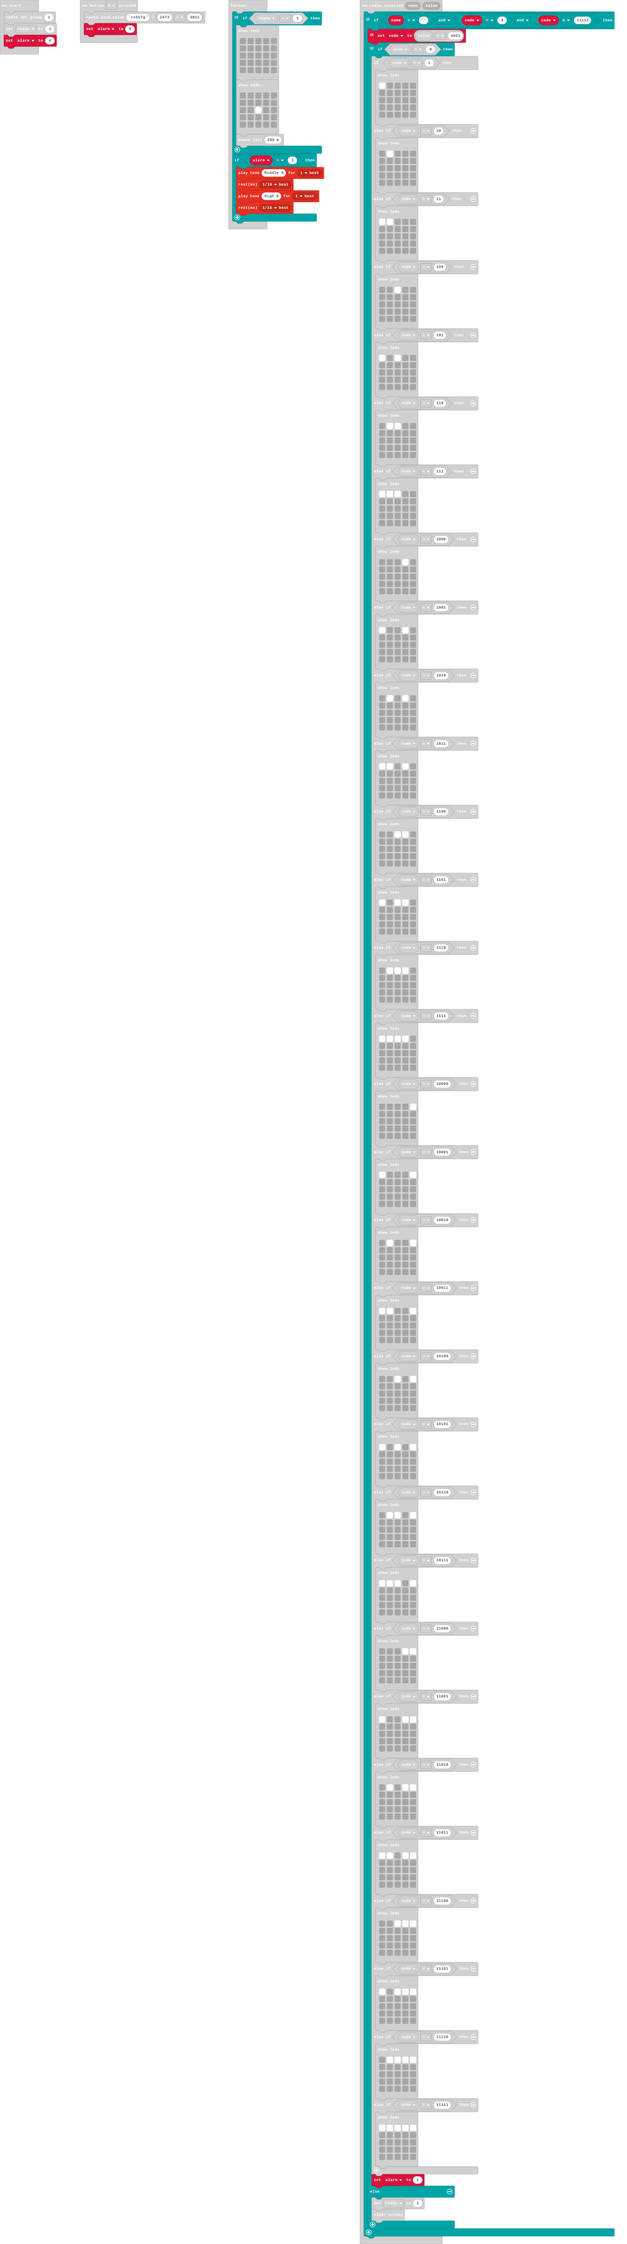
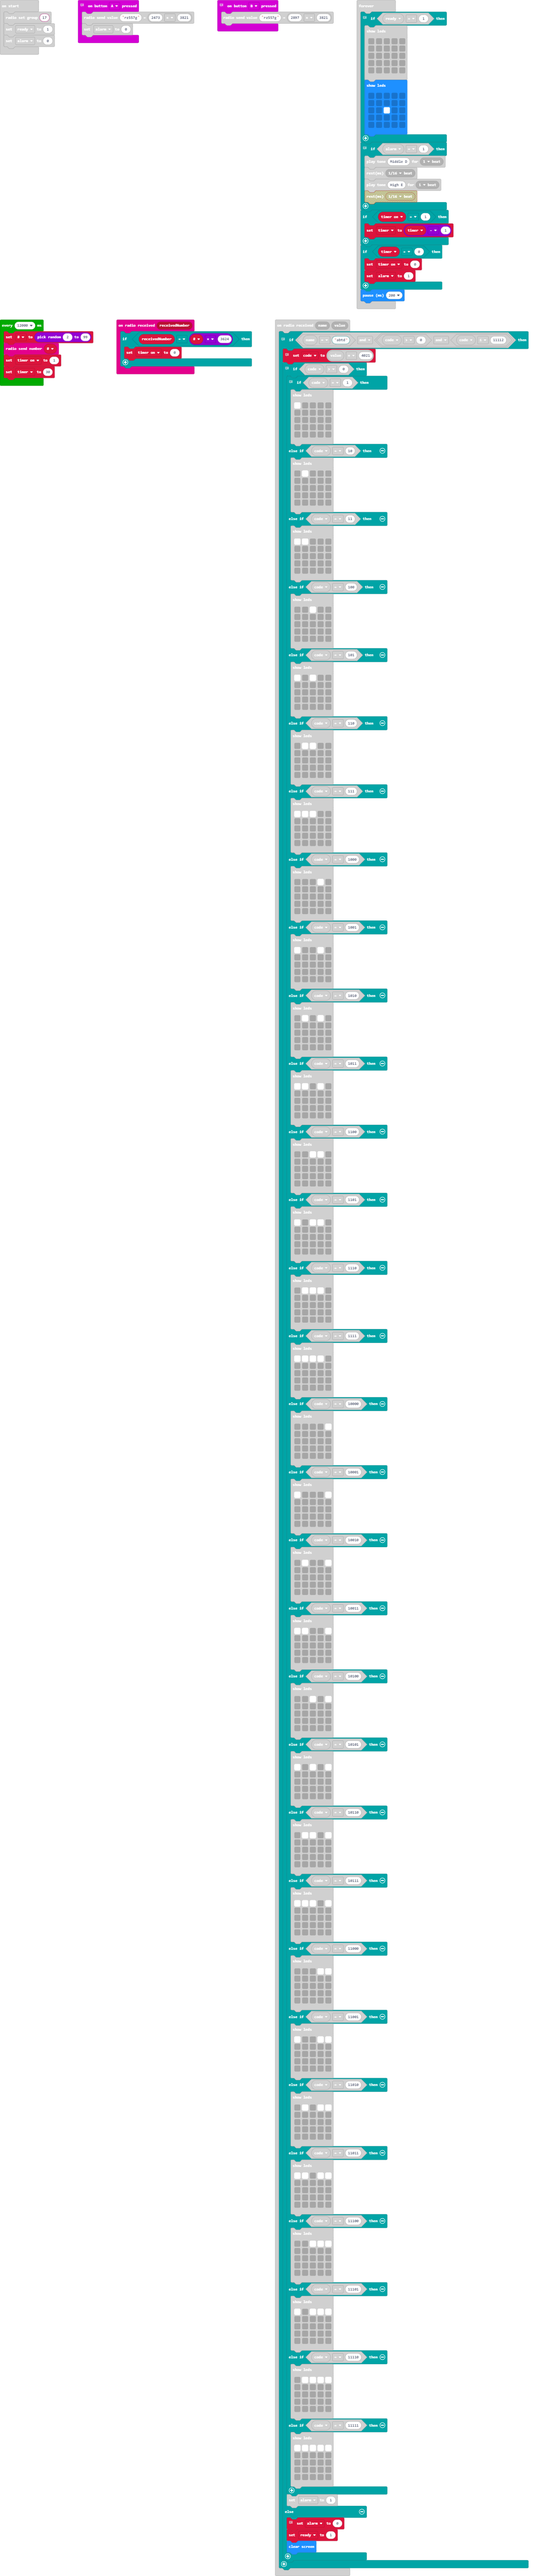
Update pxt.json, main.blocks, main.ts

Changed region(s): [[0.1218, 0.0, 0.974, 1.0], [0.0, 0.1244, 0.1522, 0.1555], [0.0, 0.0, 0.0913, 0.0311]]

diff --git a/main.ts b/main.ts
@@ -1,7 +1,14 @@
+radio.onReceivedNumber(function (receivedNumber) {
+    if (receivedNumber == _ * 3624) {
+        timer_on = 0
+    }
+})
+// turns off a alarm
 input.onButtonPressed(Button.A, function () {
     radio.sendValue("rz557g", 2473 * 3821)
     alarm = 0
 })
+// toggles weather the alarm is enabled/disbled
 input.onButtonPressed(Button.B, function () {
     radio.sendValue("rz557g", 2897 * 3821)
 })
@@ -9,7 +16,7 @@ radio.onReceivedValue(function (name, value) {
     // 1st security measure - has to have correct name
     // AND
     // 2nd security measure - number that are too big are filtered out
-    if (name == "" && (code > 0 && code <= 11112)) {
+    if (name == "abtd" && (code > 0 && code <= 11112)) {
         // decodes the message
         code = value + 4021
         // if code > 0
@@ -17,6 +24,7 @@ radio.onReceivedValue(function (name, value) {
         // else
         // all is good
         if (code > 0) {
+            // turns on the correct lights to tell teh user what set off the alarm
             if (code == 1) {
                 basic.showLeds(`
                     # . . . .
@@ -268,15 +276,20 @@ radio.onReceivedValue(function (name, value) {
             }
             alarm = 1
         } else {
+            // resets the alarm if there is nothing set off
+            alarm = 0
             ready = 1
             basic.clearScreen()
         }
     }
 })
+let timer = 0
 let code = 0
+let timer_on = 0
+let _ = 0
 let alarm = 0
 let ready = 0
-radio.setGroup(1)
+radio.setGroup(17)
 ready = 1
 alarm = 0
 basic.forever(function () {
@@ -296,12 +309,25 @@ basic.forever(function () {
             . . . . .
             . . . . .
             `)
-        basic.pause(200)
     }
+    // plays sound if the alarm is on
     if (alarm == 1) {
         music.playTone(294, music.beat(BeatFraction.Whole))
         music.rest(music.beat(BeatFraction.Sixteenth))
         music.playTone(659, music.beat(BeatFraction.Whole))
-        music.rest(music.beat(BeatFraction.Sixteenth))
     }
+    if (timer_on == 1) {
+        timer = timer - 1
+    }
+    if (timer == 0) {
+        timer_on = 0
+        alarm = 1
+    }
+    basic.pause(200)
+})
+loops.everyInterval(12000, function () {
+    _ = randint(2, 99)
+    radio.sendNumber(_)
+    timer_on = 1
+    timer = 30
 })
